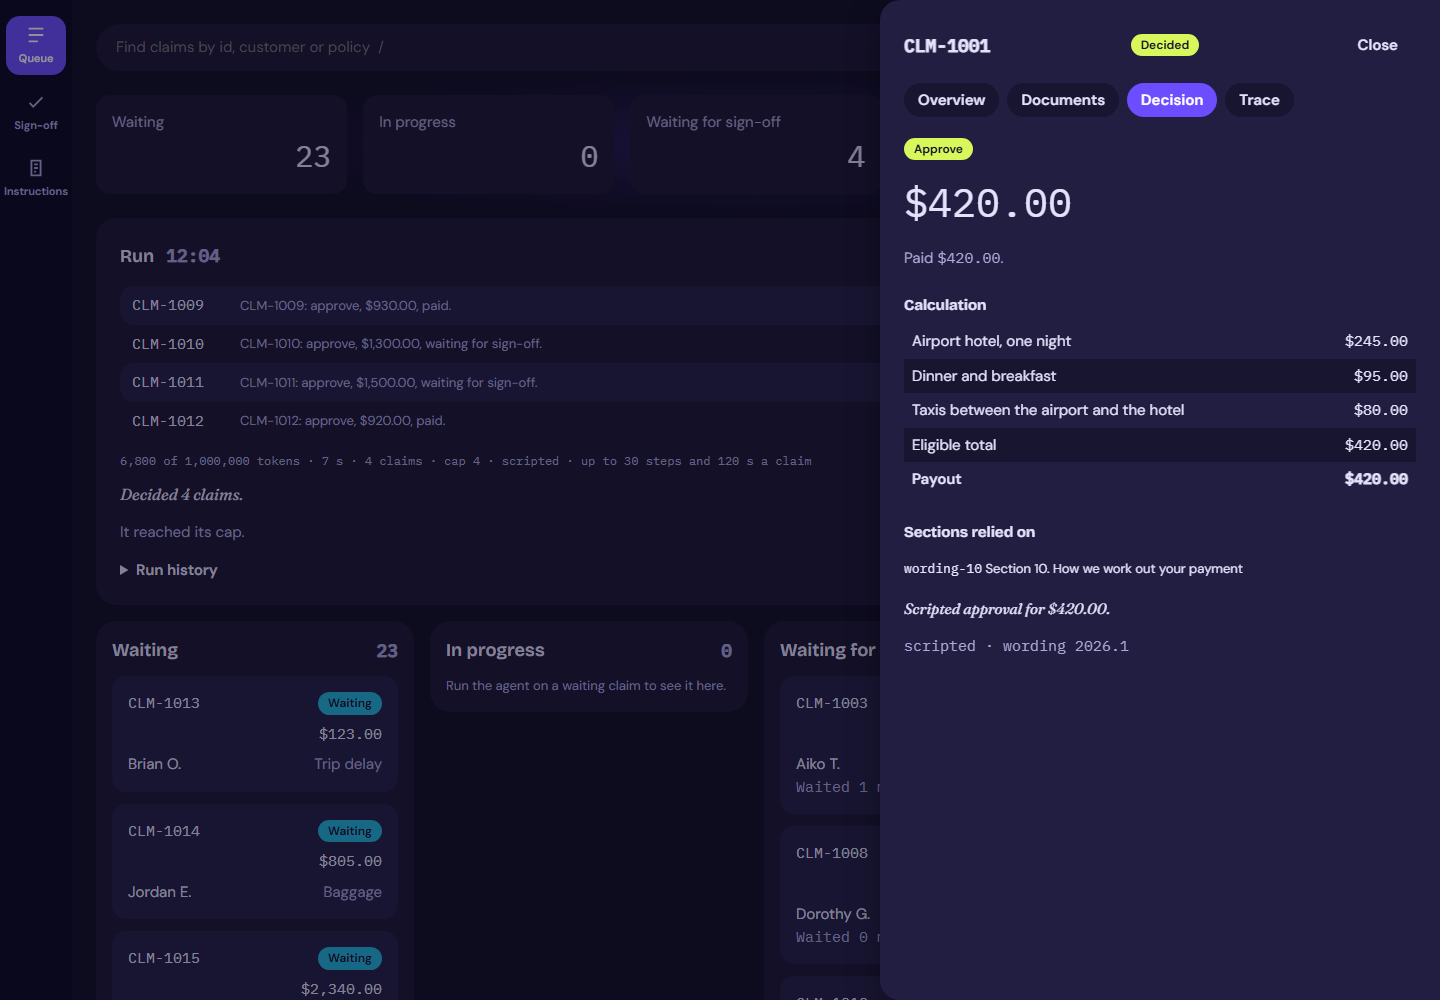
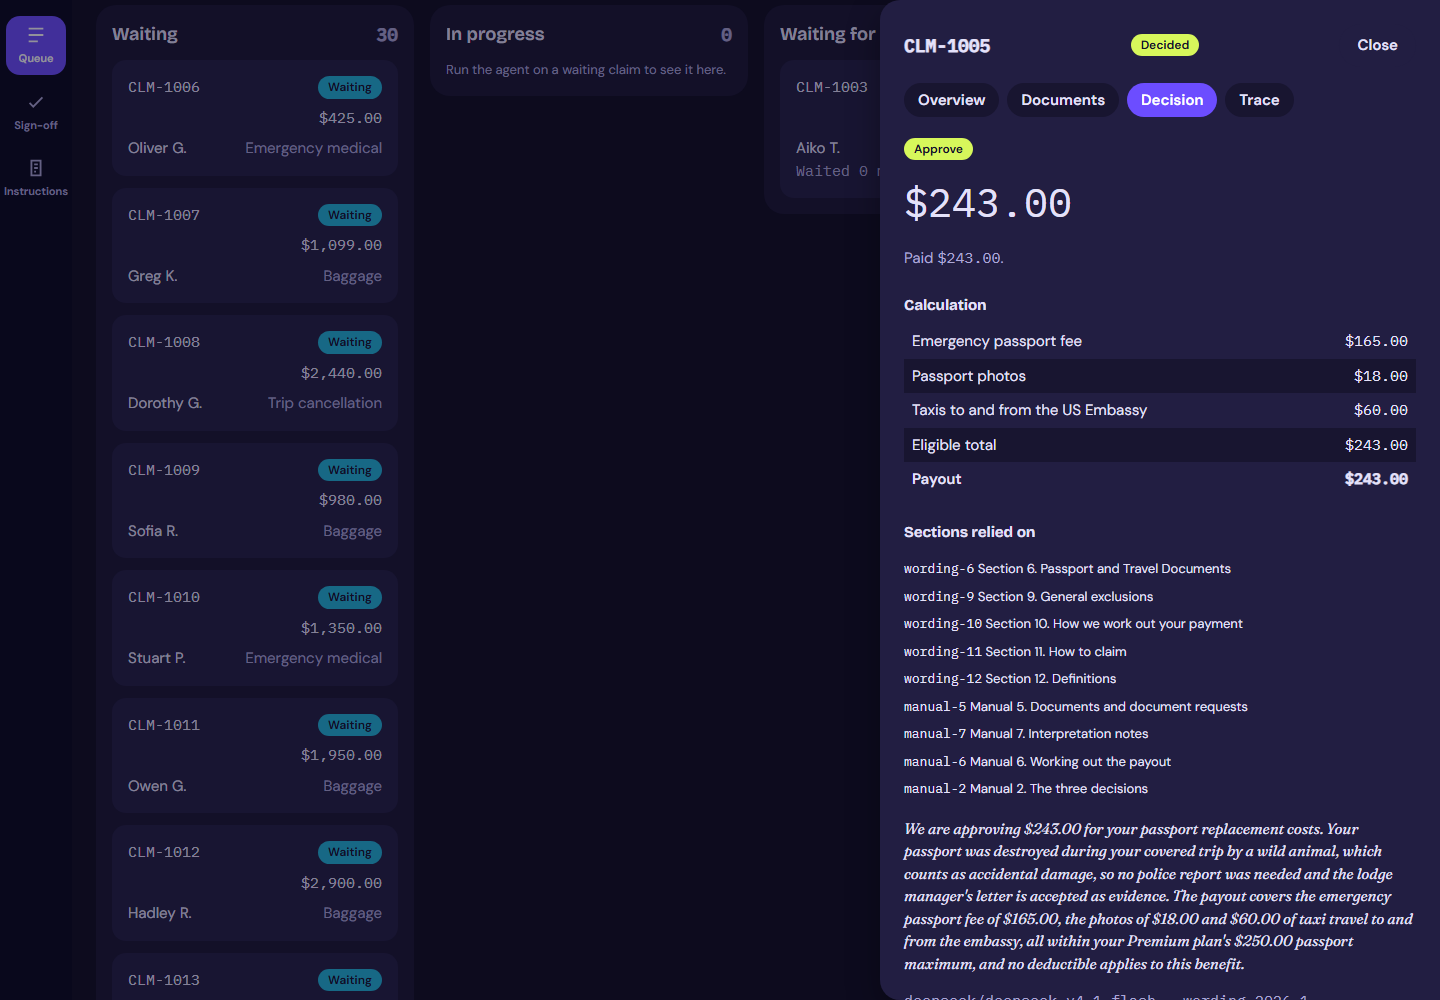
Harness phase 6: a live run and the docs

diff --git a/docs/STATUS.md b/docs/STATUS.md
@@ -26,6 +26,7 @@ Kept up to date as `docs/PROCESS.md` asks: updated at the end of every phase and
 - `uv sync` and `npm install`, then `npm run dev` for the backend on port 8000 and the dashboard on port 5173.
 - The database is `undercover.db` at the repo root, or `DB_PATH` if set. `uv run -m backend.seed --reset` rebuilds it from `data/`. The harness changes the schema, so a database from the pilot must be rebuilt this way.
 - `npm run check` runs every check.
+- To run the queue, set the number of claims in the command bar and press Run, or `curl -X POST http://127.0.0.1:8000/api/runs -H "Content-Type: application/json" -d "{\"cap\": 5}"`. The limits are settings in `.env` (see `.env.example`): `CLAIM_STEP_LIMIT` (30 model calls a claim), `RUN_TOKEN_LIMIT` (1,000,000 tokens a run), `PROVIDER_FAILURES_TO_PAUSE` (3) and `MODEL_TIMEOUT_SECONDS` (60); the time on one claim is `agent_run_timeout_seconds` (120) in `data/company.json`.
 - To try voice, set `VOICE_ENABLED=1` in `.env` and open the dashboard in Chrome or Edge. `.env.example` lists the voice settings.
 - The agent calls the backend at `http://127.0.0.1:8000`, not `localhost`: on Windows, `localhost` tries IPv6 first and adds about two seconds to every call.
 
@@ -46,7 +47,7 @@ The harness plan is in `docs/PLAN_HARNESS.md`.
 | 3 Queue runs in the backend | Done |
 | 4 The queue agent | Done |
 | 5 The dashboard | Done |
-| 6 A live run and the docs | Not started |
+| 6 A live run and the docs | Done |
 
 The pilot's plan is in `docs/PLAN.md`. The earlier plan is kept in `docs/PLAN_EXTENDED.md`.
 
@@ -65,4 +66,5 @@ The pilot's plan is in `docs/PLAN.md`. The earlier plan is kept in `docs/PLAN_EX
 | Check | Result |
 |---|---|
 | Real model run on CLM-1001 | 2026-10-30, `openai/gpt-6-luna`: approve, $420.00, paid. Section 3. Trip Delay. Reason: a crew cancellation delayed the departure past the Premium six-hour waiting period, and the receipts support the hotel, meals and taxis. Its first parallel calls guessed the policy and customer ids from the claim id, then it corrected itself from the 404 replies. |
+| Live queue run, harness | 2026-11-01, after reseeding, a run capped at 5 on `deepseek/deepseek-v4.1-flash` (low): it ordered the claims itself (CLM-1001, 1002, 1004, 1005, then 1003), worked all 5 on the first attempt, and ended `succeeded` at its cap in 2 min 7 s with 357,530 tokens (78,874 for the queue agent, about 50,000 to 61,000 per claim). Four approvals paid ($420.00, $580.00, $186.00, $243.00); CLM-1003, $3,750.00, waits for sign-off. The other 30 claims stayed waiting, nothing was left in progress, and no claim has more than one decision or payment. Each claim read 10 to 13 sections, manual sections included, and cited 6 to 9. The dashboard showed the to-do list fill in and tick off as the run went (`docs/screens/run-live-dark.png`, `run-finished-dark.png`, `trace-dark.png`). Two things to watch: the claims read more sections than they needed, which is most of their tokens, and some reasons run to four sentences rather than two or three. |
 | Voice in the browser, misheard claim numbers and reply time | Not done yet: it needs a person with a real microphone in Chrome or Edge. |

diff --git a/docs/TECH_STACK.md b/docs/TECH_STACK.md
@@ -1,7 +1,7 @@
 # Tech stack
 
 - `backend/`: FastAPI and SQLite. Every API operation has an `operation_id`, a one-line docstring and no optional inputs. Paying a claim is a separate operation that takes the amount.
-- `agent/`: LangChain's `create_agent` on OpenRouter, with one entry point that takes a claim id and a thread id. It reaches claims and its instructions only through the backend's API. It uses `openai/gpt-6-luna` with low reasoning effort by default, or the model in the environment variable `MODEL_NAME` if set, such as `openrouter/free`.
+- `agent/`: LangChain's `create_agent` on OpenRouter, in two parts with entry points that take ids: the queue agent, `run_queue(queue_run_id)` in `agent/queue.py`, which plans the run as a to-do list and hands each claim to a fresh claim agent, and the claim agent, `run(claim_id, thread_id)` in `agent/main.py`, which works one claim. The thread id is the claim run's id. Both reach claims, the wording and the manual (one section at a time) and their instructions only through the backend's API. They use LangChain's own middleware: `ModelRetryMiddleware` for provider errors and `ModelCallLimitMiddleware` for step limits. No other agent framework. They use `deepseek/deepseek-v4.1-flash` with low reasoning effort by default, or the model in the environment variable `MODEL_NAME` if set, such as `openrouter/free`.
 - `dashboard/`: React, Vite and TypeScript.
 - `e2e/`: Playwright tests.
 - `data/`: the business data the backend starts from. The agent never sees `data/evals/`, which holds the answer key.

diff --git a/docs/PLAN_HARNESS.md b/docs/PLAN_HARNESS.md
@@ -205,11 +205,11 @@ Build and check:
 
 Success criteria:
 
-- [ ] The live run works exactly 5 claims and ends `succeeded`. The other 30 claims stay `waiting`. The model on the run and its decisions is `deepseek/deepseek-v4.1-flash`.
-- [ ] In the browser, the to-do list fills in and is ticked off as the run goes. Each of the 5 claims shows its steps and the sections it read, including at least one manual section. The summary shows the tokens and time used, and the run appears in the history. The tokens are recorded in `docs/STATUS.md`.
-- [ ] No claim is `in_progress` after the run, and no claim has more than one decision or payment.
-- [ ] `docs/SPEC.md`, `docs/TECH_STACK.md` and `docs/STATUS.md` describe the product as it now is.
-- [ ] `npm run check` passes. Commit.
+- [x] The live run works exactly 5 claims and ends `succeeded`. The other 30 claims stay `waiting`. The model on the run and its decisions is `deepseek/deepseek-v4.1-flash`.
+- [x] In the browser, the to-do list fills in and is ticked off as the run goes. Each of the 5 claims shows its steps and the sections it read, including at least one manual section. The summary shows the tokens and time used, and the run appears in the history. The tokens are recorded in `docs/STATUS.md`.
+- [x] No claim is `in_progress` after the run, and no claim has more than one decision or payment.
+- [x] `docs/SPEC.md`, `docs/TECH_STACK.md` and `docs/STATUS.md` describe the product as it now is.
+- [x] `npm run check` passes. Commit.
 
 ## Final report
 
